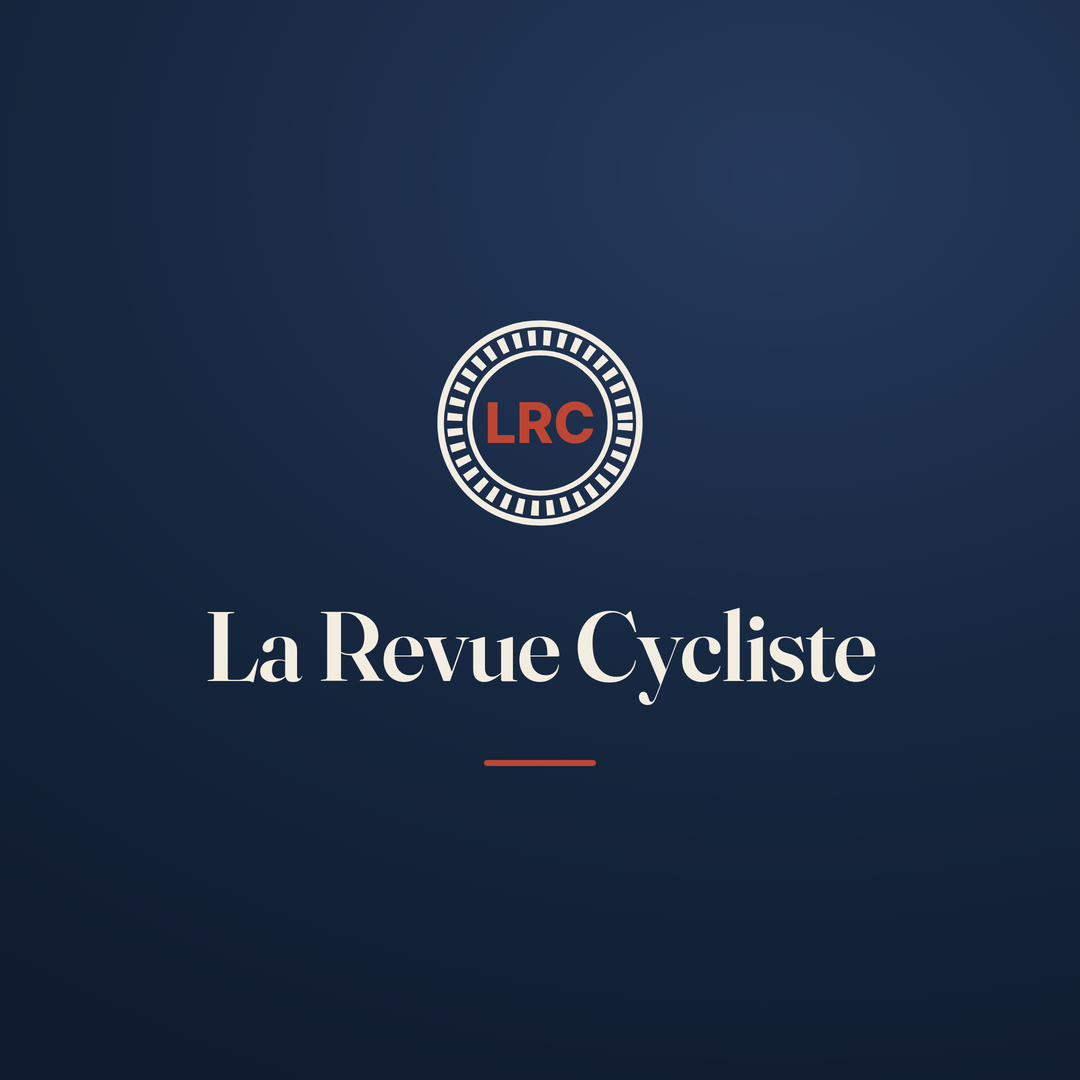
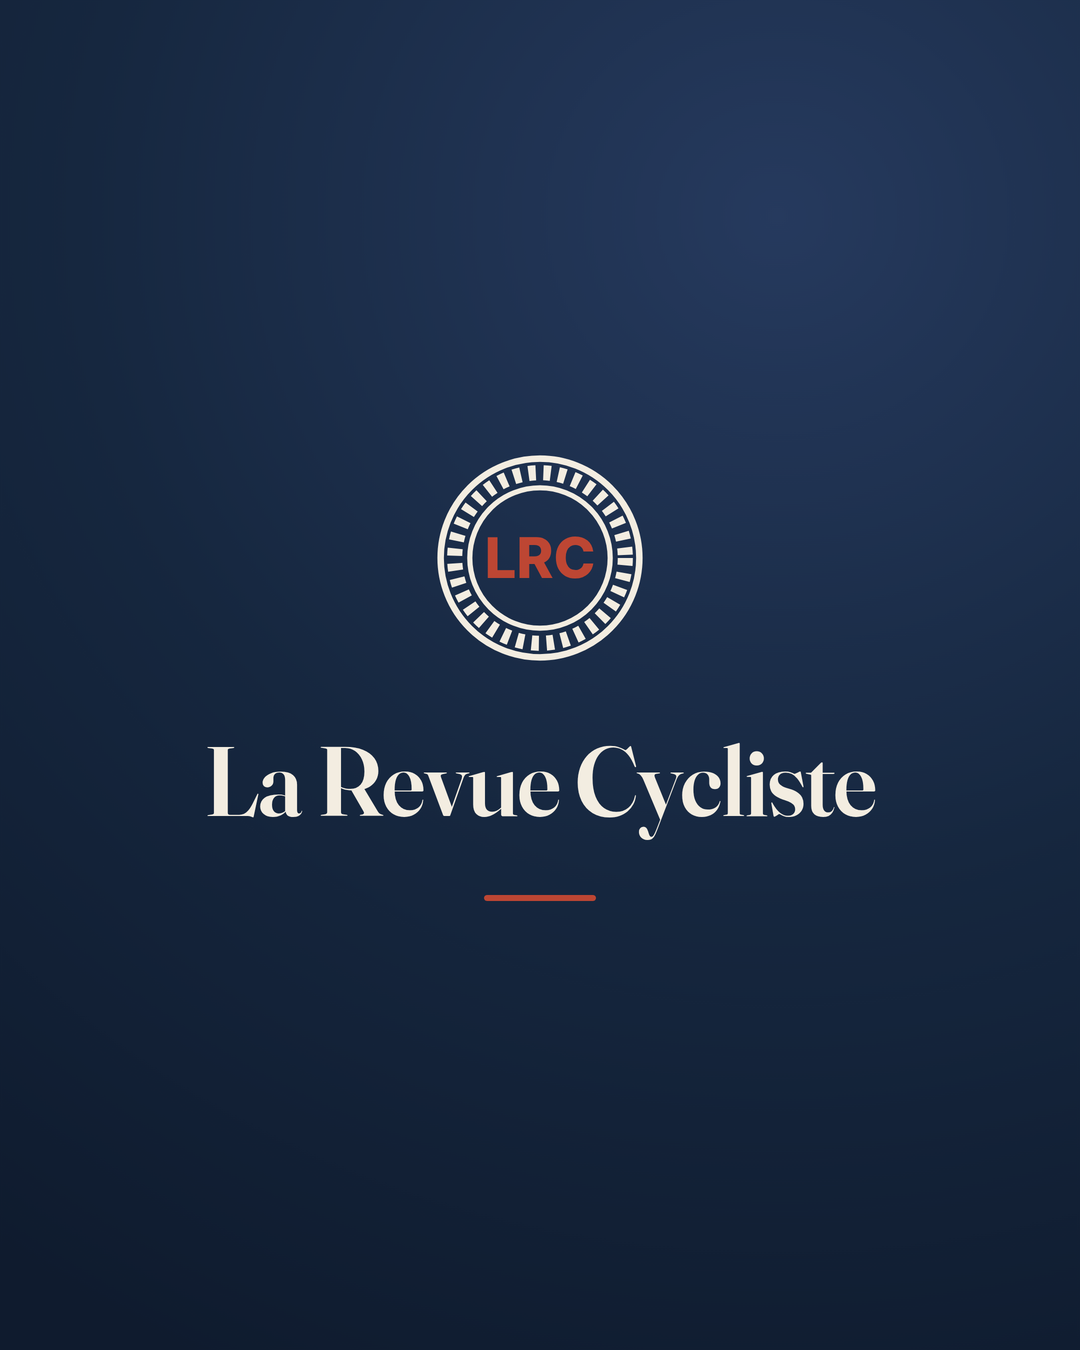
Kit Insta : passer le carrousel en format portrait 4:5 (1080×1350)
Le format portrait occupe plus de hauteur dans le fil Instagram (meilleure
visibilité). Les 3 slides sont régénérées en 1080×1350, mise en page adaptée
(contenu centré verticalement sur les slides 1 et 2). La photo de profil
reste carrée (affichage en cercle sur Instagram).

- kit/insta-1/2/3.png : 1080×1350
- kit/index.html : dimensions mises à jour

Claude-Session: https://claude.ai/code/session_01RxKgR2CLAXxue21kUbjsW2

Changed region(s): [[0.1833, 0.55, 0.825, 0.6722], [0.3972, 0.275, 0.6111, 0.4889], [0.4583, 0.7028, 0.55, 0.7333]]

diff --git a/kit/index.html b/kit/index.html
@@ -56,7 +56,7 @@
     <div class="asset">
       <img src="insta-1.png" alt="Carrousel Instagram — slide 1" />
       <div class="meta">
-        <div><b>Carrousel Insta — 1/3</b><span>1080 × 1080</span></div>
+        <div><b>Carrousel Insta — 1/3</b><span>1080 × 1350</span></div>
         <a class="dl" href="insta-1.png" download>Télécharger</a>
       </div>
     </div>
@@ -64,7 +64,7 @@
     <div class="asset">
       <img src="insta-2.png" alt="Carrousel Instagram — slide 2" />
       <div class="meta">
-        <div><b>Carrousel Insta — 2/3</b><span>1080 × 1080</span></div>
+        <div><b>Carrousel Insta — 2/3</b><span>1080 × 1350</span></div>
         <a class="dl" href="insta-2.png" download>Télécharger</a>
       </div>
     </div>
@@ -72,7 +72,7 @@
     <div class="asset">
       <img src="insta-3.png" alt="Carrousel Instagram — slide 3" />
       <div class="meta">
-        <div><b>Carrousel Insta — 3/3</b><span>1080 × 1080</span></div>
+        <div><b>Carrousel Insta — 3/3</b><span>1080 × 1350</span></div>
         <a class="dl" href="insta-3.png" download>Télécharger</a>
       </div>
     </div>
